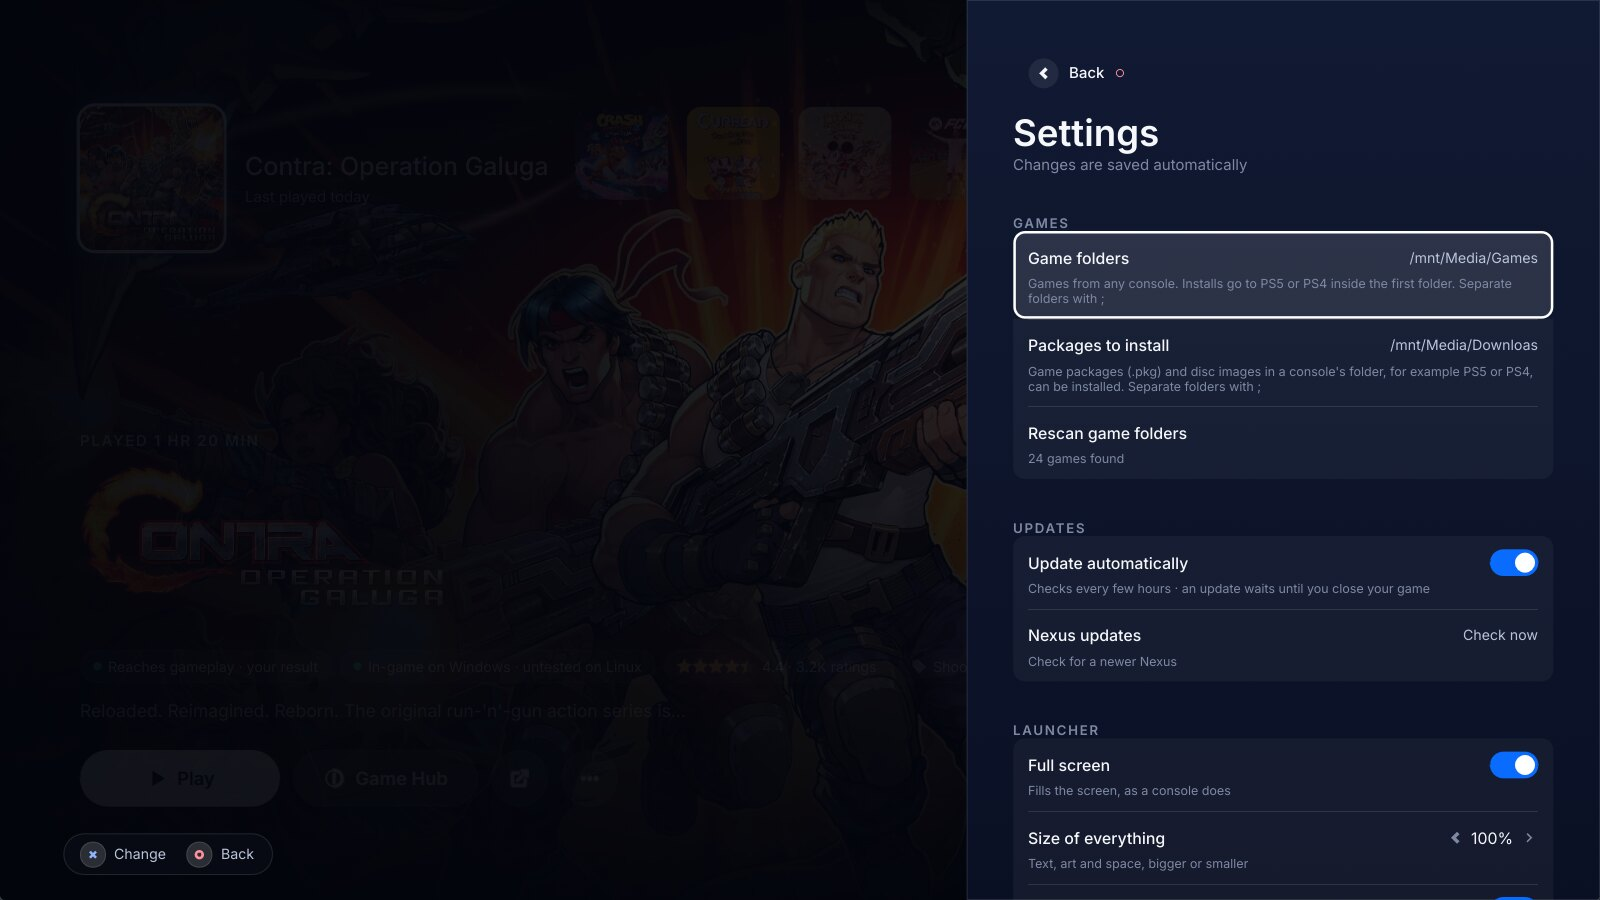
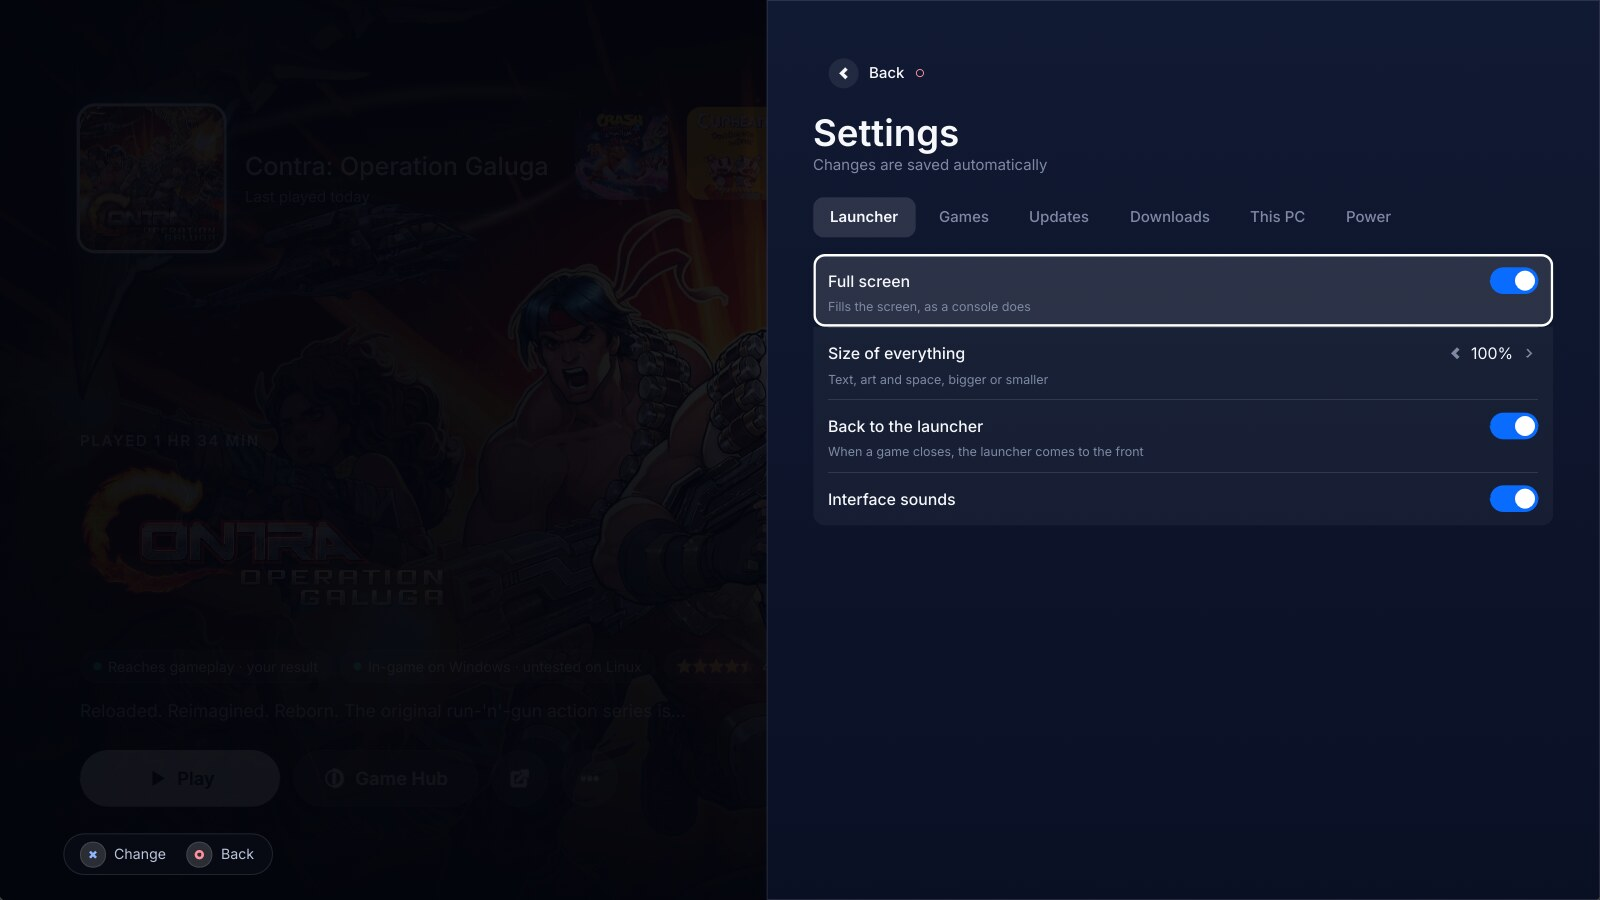
feat: Launcher is the first tab, each tab's row places are in settings-layout.slint, and the Settings screenshot is from the app

diff --git a/tests/tests/seams/default_theme/settings.rs b/tests/tests/seams/default_theme/settings.rs
@@ -81,7 +81,9 @@ fn the_keys_move_through_settings_tabs_and_change_the_focused_row() {
     host.dispatch(Command::Navigate(nexus_core::Route::Settings));
     host.settle();
 
-    // Enter on the first row, "Rescan game folders", scans the folders again.
+    // The Games tab, down to its first row: Enter on "Rescan game folders" scans the folders again.
+    host.settings_tab("Games");
+    host.navigate(Key::DownArrow);
     let text: slint::SharedString = Key::Return.into();
     host.instance().window().dispatch_event(slint::platform::WindowEvent::KeyPressed { text });
     let asked = host
@@ -92,11 +94,11 @@ fn the_keys_move_through_settings_tabs_and_change_the_focused_row() {
     assert!(asked, "Enter on Rescan asks the core to scan");
     host.pump();
 
-    // Up from the first row goes to the tabs, Right three times to DOWNLOADS, Down into its
+    // Up from the first row goes to the tabs, Right twice to DOWNLOADS, Down into its
     // rows: "Download only through a VPN", then down past the row that says there is no VPN and
     // "Add a VPN" to "Keep sharing finished downloads".
     host.navigate(Key::UpArrow);
-    for _ in 0..3 {
+    for _ in 0..2 {
         host.navigate(Key::RightArrow);
     }
     assert_eq!(host.count("seed-downloads"), 1, "the tab shows its rows");
@@ -114,12 +116,15 @@ fn the_keys_move_through_settings_tabs_and_change_the_focused_row() {
     host.navigate(Key::DownArrow);
     assert_eq!(host.count("seed-downloads"), 1);
 
-    // Back up to the tabs and Left to LAUNCHER: Down to "Interface sounds" and "Start at login".
+    // Back up to the tabs and Left to LAUNCHER, the first tab: Down to "Interface sounds" and
+    // "Start at login".
     for _ in 0..4 {
         host.navigate(Key::UpArrow);
     }
     host.navigate(Key::UpArrow);
-    host.navigate(Key::LeftArrow);
+    for _ in 0..3 {
+        host.navigate(Key::LeftArrow);
+    }
     host.navigate(Key::DownArrow);
     for _ in 0..3 {
         host.navigate(Key::DownArrow);
@@ -133,7 +138,7 @@ fn the_keys_move_through_settings_tabs_and_change_the_focused_row() {
     for _ in 0..5 {
         host.navigate(Key::UpArrow);
     }
-    for _ in 0..3 {
+    for _ in 0..5 {
         host.navigate(Key::RightArrow);
     }
     host.navigate(Key::DownArrow);
@@ -272,6 +277,7 @@ fn settings_have_no_emulator_settings() {
     host.ui.start().unwrap();
     host.dispatch(Command::Navigate(nexus_core::Route::Settings));
     host.settle();
+    host.settings_tab("Games");
     assert_eq!(host.count("setting:fullscreen"), 0, "they are on the plugin's page");
     assert_eq!(host.count("folder:kyty-build"), 0, "and so are its own folders");
     assert_eq!(host.count("folder:games"), 1, "the game folders stay");

diff --git a/tests/tests/seams/screenshots.rs b/tests/tests/seams/screenshots.rs
@@ -146,7 +146,7 @@ fn shoot_default(host: &mut Composed, window: &MinimalSoftwareWindow, out: &Path
             // Up to the tabs, then along them, as a pad does.
             let (along, tabs) = (
                 if prefix.contains("rtl") { Key::LeftArrow } else { Key::RightArrow },
-                ["updates", "launcher", "downloads", "this-pc", "power"],
+                ["games", "updates", "downloads", "this-pc", "power"],
             );
             key(host, Key::UpArrow);
             for tab in tabs {
@@ -419,11 +419,8 @@ fn shoot_sizes(host: &mut Composed, window: &MinimalSoftwareWindow, out: &Path) 
     use slint::platform::Key;
     host.dispatch(Command::Navigate(Route::Settings));
     host.load_images();
-    // Up to the tabs, two to the right to LAUNCHER, then down to Full screen.
+    // Up to the tabs, then down into LAUNCHER, the first tab, to Full screen.
     key(host, Key::UpArrow);
-    for _ in 0..2 {
-        key(host, Key::RightArrow);
-    }
     key(host, Key::DownArrow);
     shoot(window, &out.join("default-settings-launcher.png"));
     // Down past the size, Back to the launcher and Interface sounds to Start at login.
@@ -832,9 +829,9 @@ fn shoot_system(window: &MinimalSoftwareWindow, out: &Path) {
     host.dispatch(Command::Navigate(Route::Settings));
     follow(&mut host);
     key(&mut host, slint::platform::Key::UpArrow);
-    for tab in ["games", "updates", "launcher", "downloads", "this-pc", "system", "power"].iter().skip(1) {
+    for tab in ["games", "updates", "downloads", "this-pc", "system", "power"] {
         key(&mut host, slint::platform::Key::RightArrow);
-        if matches!(*tab, "system" | "power") {
+        if matches!(tab, "system" | "power") {
             shoot(window, &out.join(format!("default-settings-tab-{tab}-session.png")));
         }
     }

diff --git a/tests/tests/seams/themes.rs b/tests/tests/seams/themes.rs
@@ -210,6 +210,7 @@ fn the_default_settings_screen_maps_a_folder_through_the_host() {
     let games = tempfile::tempdir().unwrap();
     host.dispatch(Command::Navigate(nexus_core::Route::Settings));
     host.settle();
+    host.settings_tab("Games");
 
     assert_eq!(host.count("folder:games"), 1, "a row for the folder");
     // As the theme sends the folder's text.
@@ -283,6 +284,8 @@ fn the_default_settings_screen_edits_a_folder_with_the_keys() {
     host.ui.start().unwrap();
     host.dispatch(Command::Navigate(nexus_core::Route::Settings));
     host.settle();
+    host.settings_tab("Games");
+    host.navigate(slint::platform::Key::DownArrow);
     let press = |host: &Composed, text: slint::SharedString| {
         use slint_interpreter::ComponentHandle;
         host.instance().window().dispatch_event(WindowEvent::KeyPressed { text: text.clone() });

diff --git a/tests/tests/seams/default_theme/keyboard.rs b/tests/tests/seams/default_theme/keyboard.rs
@@ -302,9 +302,12 @@ fn a_settings_text_box_opened_with_the_controller_types_on_the_keyboard_too() {
     host.ui.start().unwrap();
     host.resize(1600.0, 900.0);
     host.settle();
-    // L1 from Home: Settings, on the game folders' row; Cross opens it for typing.
+    // L1 from Home: Settings, on its first tab. The Games tab, down to the game folders' row;
+    // Cross opens it for typing.
     host.pad(PadButton::LeftShoulder);
     assert_eq!(host.core().view().screen, nexus_ui_api::ScreenId::Settings);
+    host.settings_tab("Games");
+    host.navigate(slint::platform::Key::DownArrow);
     assert_eq!(host.count("folder:games"), 1);
     host.pad(PadButton::South);
     assert_eq!(host.count("osk"), 1, "the text box opened the keyboard");

diff --git a/docs/user-guide.md b/docs/user-guide.md
@@ -284,26 +284,26 @@ come to the front on each system is in [reference/desktop.md](reference/desktop.
 
 ## Settings
 
-Changes save as you make them. Settings has one tab for each section: Games, Updates, Launcher,
+Changes save as you make them. Settings has one tab for each section: Launcher, Games, Updates,
 Downloads and This PC, then System when Nexus is the whole screen, and Power. With a controller or keyboard,
 press Up from the first row to reach the tabs, Left and Right to choose one, and Down to go into its
 rows. With a mouse, click a tab.
 
 | Section | Setting | What it does |
 |---|---|---|
-| UPDATES | Update automatically | Checks for emulator updates every few hours. An update waits until you close your game |
-| UPDATES | Nexus updates | Check now, Download, then Restart to put the new version in. Only for an installed package, AppImage or app |
 | LAUNCHER | Full screen | On by default. `--windowed` opens a normal window for one run |
 | LAUNCHER | Size of everything | Text, art and space from 80% to 140%. `NEXUS_SCALE=<0.8 to 1.4>` sets it for one run |
 | LAUNCHER | Back to the launcher | When a game closes, Nexus comes to the front |
 | LAUNCHER | Interface sounds | The theme's sounds for moves, selects, back, starts and errors |
 | LAUNCHER | Start at login | Only in an installed build |
 | LAUNCHER | Screen | With two monitors or more: the one Nexus fills |
+| UPDATES | Update automatically | Checks for emulator updates every few hours. An update waits until you close your game |
+| UPDATES | Nexus updates | Check now, Download, then Restart to put the new version in. Only for an installed package, AppImage or app |
 | DOWNLOADS | Download only through a VPN | Binds the catalog downloads to your VPN, and pauses them while it is down |
 | DOWNLOADS | Your VPN, Add a VPN | On Linux, WireGuard and OpenVPN interfaces are found by themselves. With NetworkManager you connect, disconnect and add one from a `.conf` or `.ovpn` file. On macOS, pick the network your VPN app made |
 | DOWNLOADS | Keep sharing finished downloads | Other players download from you, at most 128 KB/s |
-| POWER | Quit Nexus | Closes Nexus. As the whole screen it says Restart Nexus, and the session starts it again. Log out, Restart and Shut down show there too, where the system allows them, and ask you to press twice |
 | THIS PC | | Your processor, memory and graphics, and whether each emulator's games should run well |
+| POWER | Quit Nexus | Closes Nexus. As the whole screen it says Restart Nexus, and the session starts it again. Log out, Restart and Shut down show there too, where the system allows them, and ask you to press twice |
 
 The command-line options are listed by `nexus --help` and in [development.md](development.md).
 
